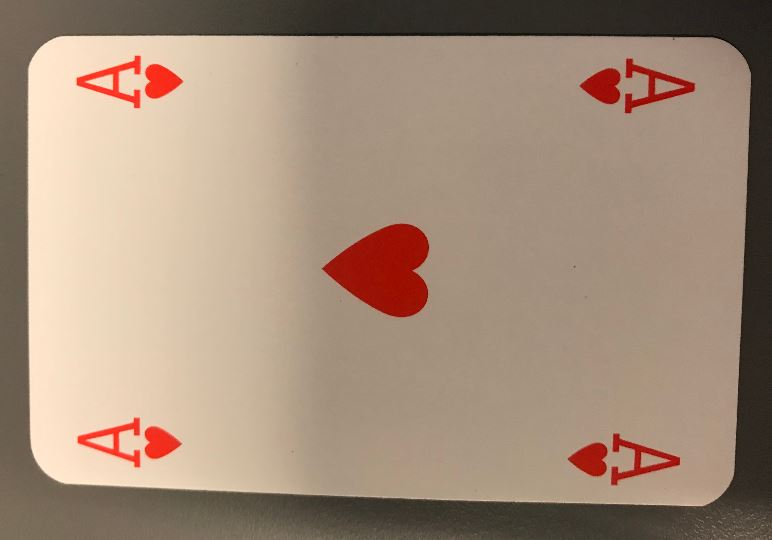
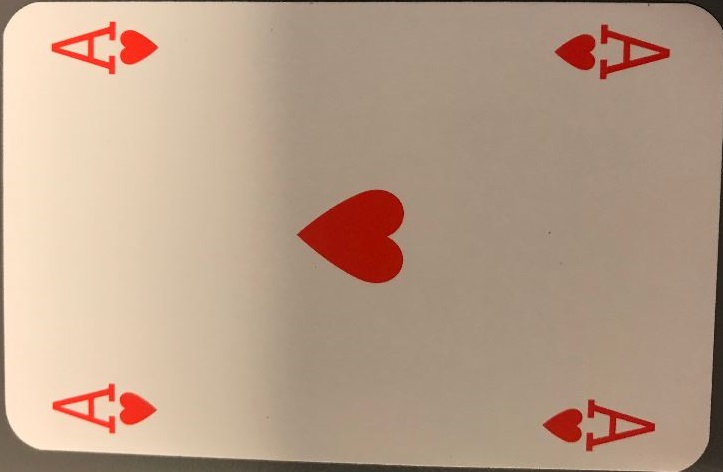
Implement function to separate cards

diff --git a/openCV_version/venv/Scripts/code/Main.py b/openCV_version/venv/Scripts/code/Main.py
@@ -5,6 +5,7 @@ import imutils
 import treys
 from treys import Evaluator
 from treys import Card
+import math
 
 #Face card detection constants
 blue = low_blue, up_blue = ([100, 165, 105], [132, 255, 255])
@@ -37,9 +38,10 @@ def main():
 
         #for each card looking object
         for i in range(len(images)):
-            print("Card " + str(i))
-            cv2.imshow("Card" + str(i), images[i])
-            analyseCard(images[i])
+            if(images[i].shape[0] > 50):
+                print("Card " + str(i))
+                cv2.imshow("Card" + str(i), images[i])
+                analyseCard(images[i])
 
 
 
@@ -55,6 +57,116 @@ def main():
 
     video_capture.release()
     cv2.destroyAllWindows()
+
+
+def analyseCard(frame):
+
+    #gray_frame = cv2.cvtColor(frame, cv2.COLOR_BGR2GRAY)
+
+    ## convert to hsv
+    hsv = cv2.cvtColor(frame, cv2.COLOR_BGR2HSV)
+
+    ## mask of green (36,25,25) ~ (86, 255,255)
+    mask = cv2.inRange(hsv, (36, 25, 25), (70, 255, 255))
+
+    ## slice the green
+    imask = mask > 0
+    green = np.zeros_like(frame, np.uint8)
+    green[imask] = frame[imask]
+
+    thresh_frame = cv2.threshold(green, 0, 255, cv2.THRESH_BINARY)
+
+    card = ""
+
+    # Rotate cards - ABA BLYAT
+    rotatedCardImage = cv2.imread("../Images/ace.jpg")
+
+    cv2.imshow("Rotated ace image", rotatedCardImage)
+    #cv2.imshow("Rotated Image", rotated)
+    # Get corner image - ABA BLYAT
+    TM = np.float32([[1, 0, 0], [0, 1, - rotatedCardImage.shape[0]/4*3]])
+    corner = cv2.warpAffine(rotatedCardImage, TM, (int(rotatedCardImage.shape[1]/4), int(rotatedCardImage.shape[0]/5)))
+
+    cv2.imshow("Corner image", corner)
+
+    # Seperate into suit and number
+
+
+
+    # suitImage =
+    # numberImage =
+
+    # Detect if red/Black
+    #isRed = checkRed(frame, gray_frame)
+
+    #gaussianCard = cv2.GaussianBlur(gray_frame, (5, 5), 0)
+    '''
+    cardSuit = DetermineSuit(gaussianCard, isRed)
+
+    '''
+
+    # Template match letter
+
+    # Detect if face card
+
+    # if not faceCard:
+    # Count blobs
+
+    return card
+
+
+'''
+def rotate(img, original):
+
+    grayScale = cv2.cvtColor(img, cv2.COLOR_BGR2GRAY)
+
+    grayScale = cv2.GaussianBlur(grayScale, (9, 9), 0)
+
+    c = cv2.findContours(grayScale.copy(), cv2.RETR_LIST, cv2.CHAIN_APPROX_SIMPLE)
+    c = imutils.grab_contours(c)
+    angle = 0
+
+
+    for i in range(len(c)):
+        perimeter = cv2.arcLength(c[i], True)
+        if perimeter > 200:
+            extLeft = tuple(c[i][c[i][:, :, 0].argmin()][0])
+            extRight = tuple(c[i][c[i][:, :, 0].argmax()][0])
+            extTop = tuple(c[i][c[i][:, :, 1].argmin()][0])
+            extBot = tuple(c[i][c[i][:, :, 1].argmax()][0])
+
+            if extLeft[1] > img.shape[0]/2:
+                print("Rotated right")
+                try:
+                    #if not math.isnan(math.tan(extTop[0] / extLeft[1] ) / math.pi * -180):
+                    angle = math.tan(extTop[0] / extLeft[1] ) / math.pi * -180
+                    print(angle)
+
+                except:
+                    print("math fail")
+
+            else:
+                print("Rotated left")
+                try:
+                    #if not  math.isnan(math.tan(extLeft[1]/ extTop[0]) / math.pi * 180):
+                    angle = math.tan(extLeft[1]/ extTop[0]) / math.pi * 180
+                    print(angle)
+                except:
+                    print("math fail")
+            cv2.imshow("Before rotate", original)
+            if extLeft[0] - extTop[0] < 10 and extLeft[0] - extTop[0] > -10:
+                angle = 0
+            rotated = imutils.rotate_bound(original, angle)
+            # TM = np.float32([[1, 0, -extLeft[0]], [0, 1, -extTop[1]]])
+            # Matrix = cv2.getRotationMatrix2D((original.shape[1]/2, original.shape[0]/2), -angle, 1.0)
+            # rotated = cv2.warpAffine(original, Matrix, (original.shape[1], original.shape[0]))
+            cv2.imshow("After rotate", rotated)
+            return rotated
+    
+'''
+
+
+
 
 def splitIntoCardImages(img):
     images = []
@@ -72,17 +184,6 @@ def splitIntoCardImages(img):
 
     memes, threshImg = cv2.threshold(green, 0, 255, cv2.THRESH_BINARY_INV)
 
-    params = cv2.SimpleBlobDetector_Params()
-
-    # Filter by Area.
-    params.filterByArea = True
-
-    # Disable unwanted filter criteria params
-    params.filterByCircularity = False  # to not care about circularity (more circular = bigger angles)
-    params.filterByColor = False  # to not care about the color
-    params.filterByConvexity = False  # to not care about convexity (idk actually how to explain it)
-    params.filterByInertia = False  # doesn't care how much like a circle it is (difference in radiusw)
-
     grayScale = cv2.cvtColor(threshImg, cv2.COLOR_BGR2GRAY)
 
     grayScale = cv2.GaussianBlur(grayScale, (9, 9), 0)
@@ -99,48 +200,15 @@ def splitIntoCardImages(img):
             extTop = tuple(c[i][c[i][:, :, 1].argmin()][0])
             extBot = tuple(c[i][c[i][:, :, 1].argmax()][0])
 
-            # draws boundary of contours.
             # Used to flatted the array containing the co-ordinates of the vertices.
 
             TM = np.float32([[1, 0, -extLeft[0]], [0, 1, -extTop[1]]])
             imgT = cv2.warpAffine(img, TM, ((extRight[0] - extLeft[0]), (extBot[1] - extTop[1])))
-
-            images.append(imgT)
+            if imgT.shape[0] > 200:
+                images.append(imgT)
             #cv2.imshow("Single card pls" + str(i), imgT)
 
     return images
-
-def analyseCard(frame):
-
-    gray_frame = cv2.cvtColor(frame, cv2.COLOR_BGR2GRAY)
-    card = ""
-    # Rotate cards - ABA BLYAT
-
-
-    # Get corner image - ABA BLYAT
-
-    # Seperate into suit and number
-
-    # suitImage =
-    # numberImage =
-
-    # Detect if red/Black
-    isRed = checkRed(frame, gray_frame)
-
-    gaussianCard = cv2.GaussianBlur(gray_frame, (5, 5), 0)
-    '''
-    cardSuit = DetermineSuit(gaussianCard, isRed)
-
-    '''
-
-    # Template match letter
-
-    # Detect if face card
-
-    # if not faceCard:
-    # Count blobs
-
-    return card
 
 def evaluateCards(board, hand):
     board = [
